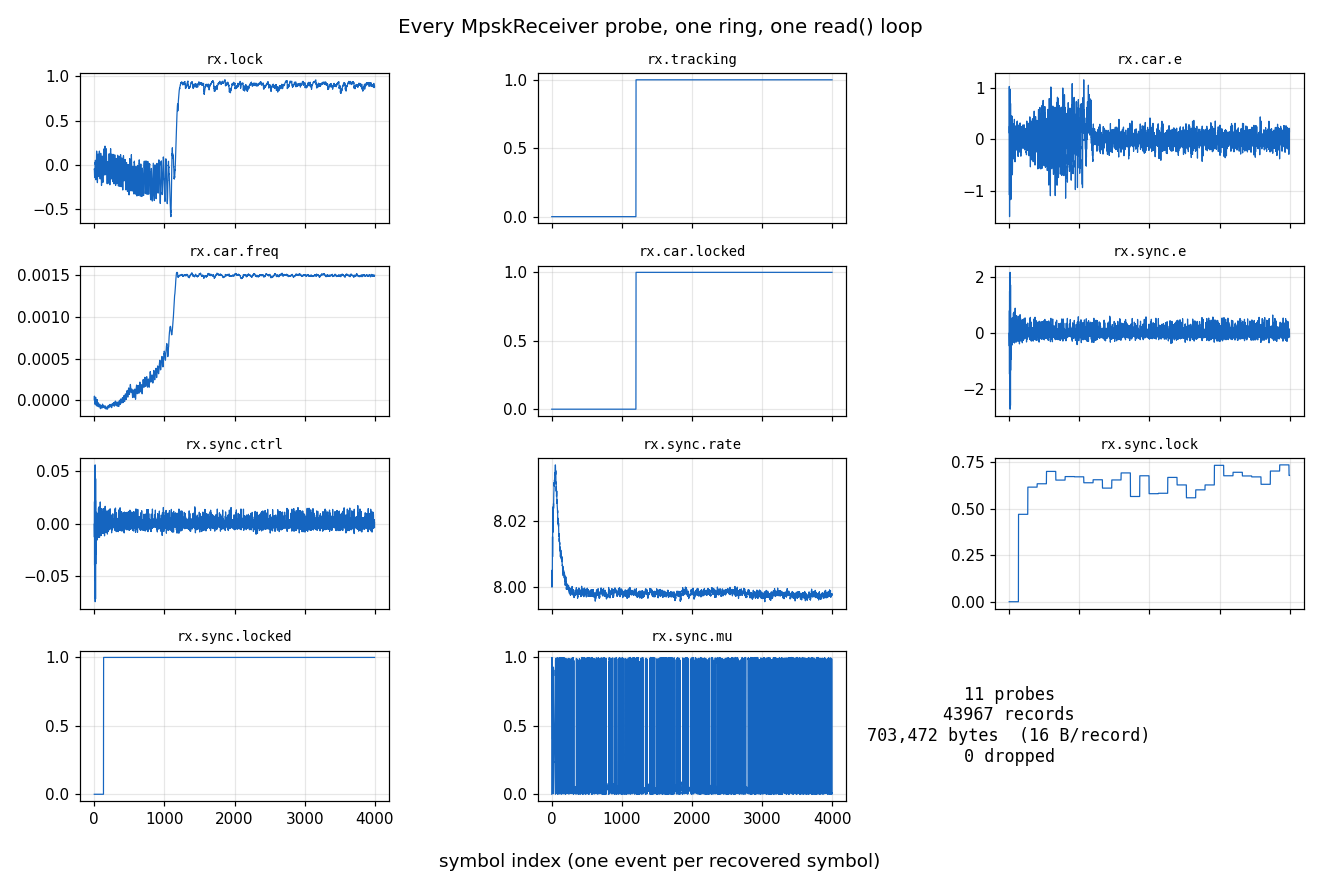
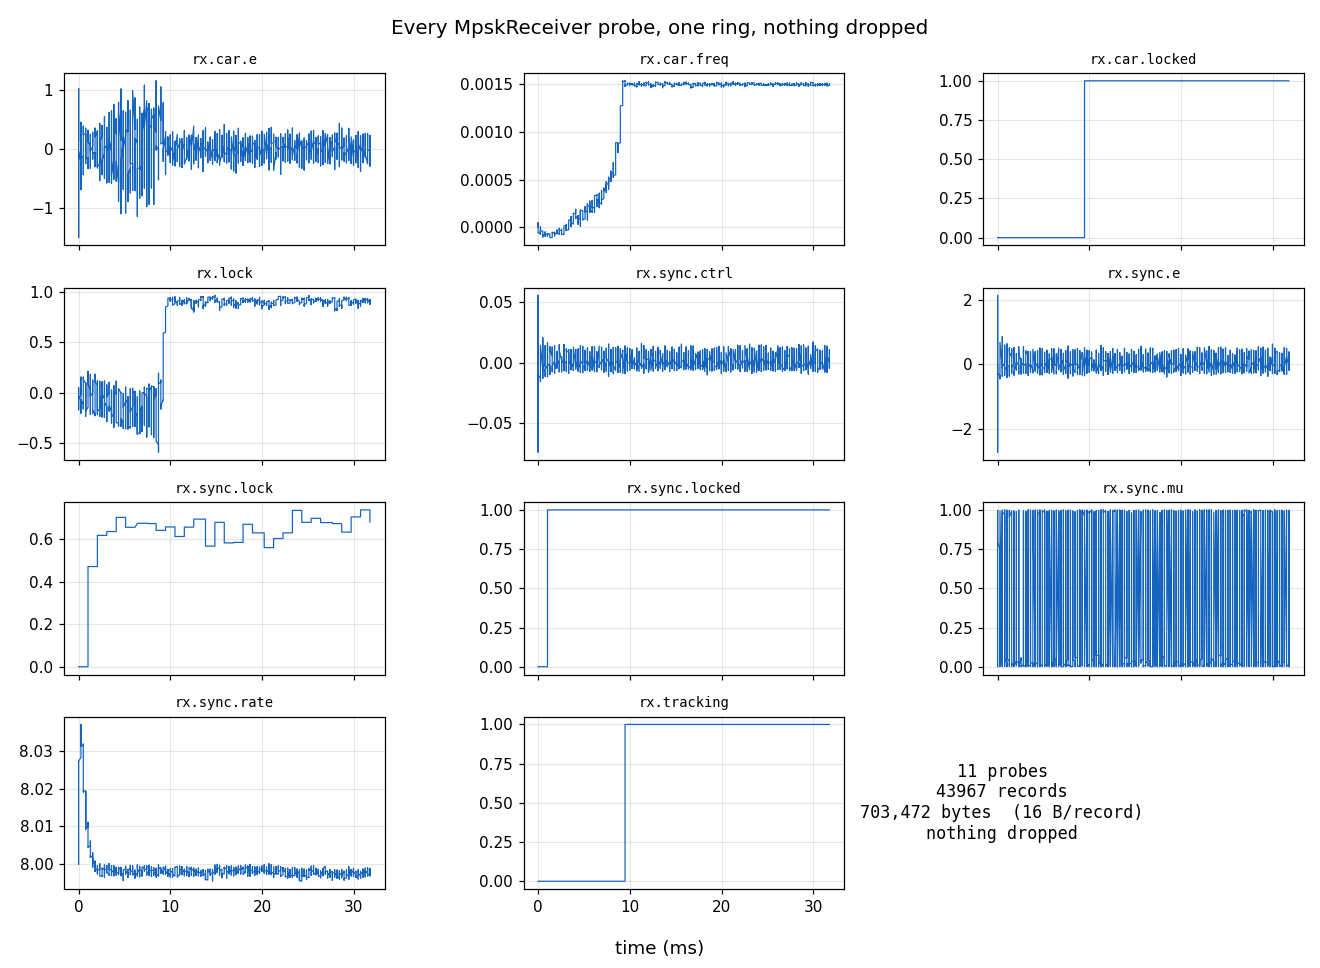
feat(examples): the capture demo measures the convenience layer
docs/design/telemetry.md names this demo as the instrument for the whole
v2 section -- "expert-written and still spends more lines on telemetry
ceremony than on DSP" -- so the section's claims were unbacked while the
demo still did it the old way. Now it does not.

Gone from the capture region: the 1 << 14 ring guess, chunks +
np.concatenate, the recs[recs["probe"] == pid]["value"] filter, the
{v: k} id-to-name inversion, and np.arange(v.size) labelled "symbol
index". The drain is four lines and every one of them reads as DSP. The
x-axis is real milliseconds, so the carrier pull-in at ~9ms lines up
across rx.car.freq, rx.car.locked and rx.tracking by inspection.

`assert tlm.dropped == 0` is GONE rather than restated. It was the only
thing checking the drain cadence had been sufficient, and a capture makes
that arithmetic: close() raises on a hole, so reaching the line after it
is itself the proof. Asserting it again would be a weaker copy of a
guarantee already enforced. Mutation-checked, not assumed -- omitting
set_now() from the loop raises "the capture has a hole".

All six friction rows in the design doc now read fixed, and every one is
demonstrated here rather than merely available. Also recorded there:
capture(**objects) is NOT being built. Every object's attach takes its
own concrete state type, so they share a shape and not a type -- an
attach list would be a void* vtable invented to serve a Python sketch,
[…]

diff --git a/src/doppler/examples/mpsk_telemetry_capture_demo.py b/src/doppler/examples/mpsk_telemetry_capture_demo.py
@@ -1,18 +1,25 @@
 #!/usr/bin/env python3
-"""Capture and store EVERY telemetry probe an MpskReceiver exposes.
+"""Capture EVERY telemetry probe an MpskReceiver exposes, losslessly.
 
 Attaches one `Telemetry` context to an `MpskReceiver` at ``decim=1`` (every
-event on every probe), drives a QPSK carrier pull-in, drains the lock-free
-ring block by block, and stores the complete capture. The stored bytes ARE
-the on-wire format: a `Telemetry.read()` row is the 16-byte C
-``dp_tlm_rec_t`` (``n:u8, value:f4, probe:u2, flags:u2``), so ``np.save``
-persists it with zero conversion and ``recs.tobytes()`` is exactly the
-``TLM16`` payload that ``dp_tlm_sink`` frames onto NATS.
+event on every probe), drives a QPSK carrier pull-in, and lets a
+`MemoryCapture` own the drain. Nothing here reasons about ring size or drain
+cadence: the capture sizes the ring from the probe count and the block, and
+``set_now()`` drains at every boundary, so **a drop is impossible rather than
+merely unlikely** — and `close()` raises if one happened anyway.
 
 The receiver forwards to its child loops, so one attach registers all 11
 probes — its own carrier set (``rx.lock``/``rx.tracking``/``rx.car.*``) plus
-the symbol-timing loop (``rx.sync.*``). The figure plots every one of them,
-all pulled from the same `read()` loop.
+the symbol-timing loop (``rx.sync.*``). `read_dict` hands them back split by
+name with their sample indices, so the figure plots real **seconds** and no
+line of this file filters by probe id or inverts an id-to-name map.
+
+The stored bytes are still the on-wire format: a record is the 16-byte C
+``dp_tlm_rec_t`` (``n:u8, value:f4, probe:u2, flags:u2``), so ``.tofile()``
+writes exactly the ``TLM16`` payload ``dp_tlm_sink`` frames onto NATS. For a
+capture you never need back in-process, ``Capture(tlm, block, path, clock)``
+writes those same bytes straight to disk plus a JSON sidecar carrying the
+probe registry and time base.
 
 Generates ``docs/assets/mpsk_telemetry_capture_demo.png``.
 
@@ -29,8 +36,12 @@ from pathlib import Path
 
 import numpy as np
 
-from doppler.telemetry import Telemetry
+from doppler.telemetry import MemoryCapture, Telemetry
 from doppler.track import MpskReceiver
+from doppler.wfm import SampleClock
+
+FS = 1e6  # sample rate, and therefore the figure's time axis
+BLOCK = 256  # the step of our own loop — and the capture's whole contract
 
 # A QPSK signal at 8 samples/symbol with a residual carrier offset, cold-
 # started (init_norm_freq=0) so the pull-in is real; 20 dB matched Es/N0.
@@ -48,8 +59,9 @@ iq = (
 
 # ONE ring; attach the receiver at decim=1 = EVERY event on EVERY probe. The
 # attach registers the receiver's own probes AND forwards to its child loops,
-# so probe_names below is the full set of "all available telemetry".
-tlm = Telemetry(1 << 14)
+# so this is the full set of "all available telemetry". Probes must be
+# attached BEFORE the capture opens: the ring is sized from the probe table.
+tlm = Telemetry()
 rx = MpskReceiver(
     m=4,
     sps=8,
@@ -62,27 +74,29 @@ rx = MpskReceiver(
     warmup_syms=200,
 )
 rx.set_telemetry(tlm, "rx", 1)
-probes = tlm.probe_names  # name -> id: the full registered set
 
-# Produce block by block on one thread; the single consumer drains every block.
-chunks = []
-for i in range(0, iq.size, 256):
-    tlm.set_now(i)  # stamp this block's records with sample index i
-    rx.steps(iq[i : i + 256])  # producer: emits from the hot loops
-    chunks.append(tlm.read())  # consumer: drain what this block emitted
-recs = np.concatenate(chunks)
+# The capture owns the drain. `set_now(i)` marks the boundary and drains the
+# block just finished; no ring size to guess, no read()/concatenate loop, and
+# no post-hoc assert standing in for a guarantee.
+with MemoryCapture(tlm, BLOCK, SampleClock(FS)) as cap:
+    for i in range(0, iq.size, BLOCK):
+        tlm.set_now(i)
+        rx.steps(iq[i : i + BLOCK])
+    cap.close()  # final drain — and it RAISES if a record was lost, so
+    #              reaching the next line is itself the losslessness proof
+    series = cap.read_dict(index=True)  # {name: (sample_index, values)}
+    recs = cap.records()  # the same data, still 16-byte wire records
 
-# The 16-byte record layout IS the capture format. np.save writes the array
-# verbatim; recs.tobytes() is byte-for-byte the TLM16 payload tlm_sink frames.
-cap = Path(tempfile.mkdtemp())
-np.save(cap / "mpsk_tlm.npy", recs)
-(cap / "mpsk_tlm.tlm16").write_bytes(recs.tobytes())
+# The 16-byte record layout IS the capture format: .tofile() writes exactly
+# the TLM16 payload tlm_sink frames onto the wire.
+store = Path(tempfile.mkdtemp()) / "mpsk_tlm.tlm16"
+recs.tofile(store)
 
 assert rx.tracking == 1  # the receiver handed over to decision-directed track
-assert tlm.dropped == 0  # the drain cadence kept the ring ahead
-assert {int(p) for p in np.unique(recs["probe"])} == set(probes.values())
-assert np.array_equal(np.load(cap / "mpsk_tlm.npy"), recs)  # bit-exact reload
-assert (cap / "mpsk_tlm.tlm16").stat().st_size == recs.nbytes == 16 * len(recs)
+assert set(series) == set(tlm.probe_names)  # every probe came back by name
+assert sum(v.size for _, v in series.values()) == len(recs)  # nothing lost
+assert store.stat().st_size == recs.nbytes == 16 * len(recs)
+assert np.array_equal(np.fromfile(store, dtype=recs.dtype), recs)
 # --8<-- [end:capture]
 
 
@@ -92,50 +106,47 @@ def main(out_path: str = "mpsk_telemetry_capture_demo.png") -> None:
     matplotlib.use("Agg")
     import matplotlib.pyplot as plt
 
-    id2name = {v: kk for kk, v in probes.items()}
-    order = sorted(probes.values())
-
+    names = sorted(series)
     ncol = 3
-    nrow = -(-(len(order) + 1) // ncol)  # +1 cell for the capture summary
+    nrow = -(-(len(names) + 1) // ncol)  # +1 cell for the capture summary
     fig, axes = plt.subplots(
-        nrow, ncol, figsize=(12.0, 2.0 * nrow), sharex=True
+        nrow, ncol, figsize=(12.0, 2.2 * nrow), sharex=True
     )
     axes = axes.ravel()
 
-    # Every probe emits once per recovered symbol, so the event ordinal is the
-    # symbol index; one small panel each — the whole capture, nothing dropped.
-    for ax, pid in zip(axes, order):
-        v = recs[recs["probe"] == pid]["value"]
-        ax.plot(np.arange(v.size), v, lw=0.8, color="#1565c0")
-        ax.set_title(id2name[pid], fontsize=9, family="monospace")
+    # `n` is the sample index the record was stamped with, so the x-axis is
+    # real time — not an event ordinal standing in for one.
+    for ax, name in zip(axes, names):
+        n, v = series[name]
+        ax.plot(n / FS * 1e3, v, lw=0.8, color="#1565c0")
+        ax.set_title(name, fontsize=9, family="monospace")
         ax.grid(alpha=0.3)
         ax.margins(x=0)
 
-    # Summary in the trailing empty cell.
-    sm = axes[len(order)]
+    sm = axes[len(names)]
     sm.axis("off")
     sm.text(
         0.5,
         0.5,
-        f"{len(order)} probes\n{len(recs)} records\n"
-        f"{recs.nbytes:,} bytes  (16 B/record)\n{tlm.dropped} dropped",
+        f"{len(names)} probes\n{len(recs)} records\n"
+        f"{recs.nbytes:,} bytes  (16 B/record)\nnothing dropped",
         ha="center",
         va="center",
         fontsize=11,
         family="monospace",
     )
-    for ax in axes[len(order) + 1 :]:
+    for ax in axes[len(names) + 1 :]:
         ax.axis("off")
 
     fig.suptitle(
-        "Every MpskReceiver probe, one ring, one read() loop", fontsize=13
+        "Every MpskReceiver probe, one ring, nothing dropped", fontsize=13
     )
-    fig.supxlabel("symbol index (one event per recovered symbol)")
+    fig.supxlabel("time (ms)")
     fig.tight_layout()
     fig.savefig(out_path, dpi=110)
     print(
-        f"captured {len(recs)} records over {len(order)} probes "
-        f"({recs.nbytes:,} bytes, {tlm.dropped} dropped) -> {out_path}"
+        f"captured {len(recs)} records over {len(names)} probes "
+        f"({recs.nbytes:,} bytes, nothing dropped) -> {out_path}"
     )
 
 

diff --git a/docs/design/telemetry.md b/docs/design/telemetry.md
@@ -328,21 +328,23 @@ a Python producer can symmetrically publish `read()` output through
 `Publisher(ep, TLM16)`). File dump still falls out of Python for free
 (`recs.tofile(...)`).
 
-## v2 — convenience layer (C built; Python surface pending)
+## v2 — convenience layer (SHIPPED)
 
-v1 is powerful and clunky. The clunkiness is structural, not sloppiness:
-`src/doppler/examples/mpsk_telemetry_capture_demo.py` is expert-written and
-still spends more lines on telemetry ceremony than on DSP. The friction,
-measured across the three telemetry examples:
+v1 was powerful and clunky, structurally rather than sloppily:
+`src/doppler/examples/mpsk_telemetry_capture_demo.py` was expert-written and
+still spent more lines on telemetry ceremony than on DSP. That demo is the
+measuring instrument for this whole section, so it was rewritten around the
+shipped surface — every row below is now demonstrated there, not merely
+available. The friction, as measured across the three telemetry examples:
 
-| friction                       | where                                                  | cost                                          | status                            |
-| ------------------------------ | ------------------------------------------------------ | --------------------------------------------- | --------------------------------- |
-| ring size is a guess           | `Telemetry(1 << 14)` in all three                      | silent drops unless you remember to assert    | **fixed** — computed, not guessed |
-| hand-rolled drain loop         | `set_now` / `steps` / `read` / `concatenate` per block | get the cadence wrong and data is gone        | **fixed** — the capture owns it   |
-| capture is not self-describing | `np.save(recs)` / `recs.tobytes()`                     | **probe names live only in the live context** | **fixed** — JSON sidecar          |
-| per-probe filtering reinvented | `recs[recs["probe"] == tlm.probe_id(n)]["value"]`      | **three copies**, one per example             | open (Python surface)             |
-| id→name inversion by hand      | `{v: k for k, v in probes.items()}`                    | every consumer redoes it                      | open (Python surface)             |
-| no time axis                   | plots use `np.arange(v.size)` labelled "symbol index"  | can't plot seconds even though `n` is stamped | sidecar carries it; plotting open |
+| friction                       | where                                                  | cost                                          | status                              |
+| ------------------------------ | ------------------------------------------------------ | --------------------------------------------- | ----------------------------------- |
+| ring size is a guess           | `Telemetry(1 << 14)` in all three                      | silent drops unless you remember to assert    | **fixed** — computed, not guessed   |
+| hand-rolled drain loop         | `set_now` / `steps` / `read` / `concatenate` per block | get the cadence wrong and data is gone        | **fixed** — the capture owns it     |
+| capture is not self-describing | `np.save(recs)` / `recs.tobytes()`                     | **probe names live only in the live context** | **fixed** — JSON sidecar            |
+| per-probe filtering reinvented | `recs[recs["probe"] == tlm.probe_id(n)]["value"]`      | **three copies**, one per example             | **fixed** — `read_dict()`           |
+| id→name inversion by hand      | `{v: k for k, v in probes.items()}`                    | every consumer redoes it                      | **fixed** — keys ARE the names      |
+| no time axis                   | plots use `np.arange(v.size)` labelled "symbol index"  | can't plot seconds even though `n` is stamped | **fixed** — `read_dict(index=True)` |
 
 ### Losslessness is arithmetic, not scheduling
 
@@ -681,6 +683,20 @@ make five spellings of "format a timestamp" in one repo, so the display
 helper is consolidated in the same pass.
 
 ### The four pieces
+
+**Status.** Three of the four are done, and one dissolved. `read_dict()`
+shipped as described. `recording()` was **superseded** before it was built:
+the boundary drain below is a proof where a polling thread was a heuristic,
+so `Capture`/`MemoryCapture` own the drain instead. `to_file` shipped in a
+different shape — raw records plus a `<path>-meta` JSON sidecar rather than
+one framed container, which keeps `np.fromfile` working with no reader
+library. And **`capture(**objects)` is not being built**: doppler is
+C-first, and there is no C face for it to bind. Every instrumented object's
+attach takes its own concrete state type (`mpsk_receiver_state_t *`,
+`symsync_state_t *`, …) — they share a shape, not a type — so an attach
+list would be a `void *` vtable invented to serve a Python sketch, and the
+per-object attach is already bound as `rx.set_telemetry(tlm, "rx", 1)`.
+The sketch below is kept as the design record that led there.
 
 **1 — `capture(**objects)` — one command to turn everything on.**
 `set_telemetry` already registers *all* of an object's probes, forwarding to

diff --git a/docs/gallery/mpsk-telemetry-capture.md b/docs/gallery/mpsk-telemetry-capture.md
@@ -5,11 +5,11 @@
 ## What you're seeing
 
 Every panel is one telemetry probe an `track.MpskReceiver` exposes, and
-every trace came out of a **single** `read()` loop over a **single**
-`telemetry.Telemetry` ring. One `set_telemetry` attach registers the
-receiver's own carrier probes **and** forwards to its symbol-timing child
-loop, so a cold-start QPSK pull-in leaves a complete record of the whole
-receiver:
+every trace came out of a **single** `telemetry.MemoryCapture` over a
+**single** `telemetry.Telemetry` ring. One `set_telemetry` attach registers
+the receiver's own carrier probes **and** forwards to its symbol-timing
+child loop, so a cold-start QPSK pull-in leaves a complete record of the
+whole receiver:
 
 - **`rx.lock` / `rx.tracking` / `rx.car.locked`** — the carrier lock EMA
     rises off its cold-start value, and the two verify-counted decisions
@@ -26,33 +26,39 @@ receiver:
 
 Nothing is decimated (`decim=1`) and nothing is dropped — the summary cell
 reports the full capture: 11 probes, one 16-byte record per probe per
-recovered symbol.
+recovered symbol. The x-axis is real time, because each record carries the
+sample index it was stamped with.
 
 ## How it works
 
-The 16-byte record layout **is** the capture format. `Telemetry.read()`
-returns the exact C `dp_tlm_rec_t` as a structured array
-(`n:u8, value:f4, probe:u2, flags:u2`), so `np.save` persists it with no
-transformation and `recs.tobytes()` is byte-for-byte the `TLM16` payload
-that `dp_tlm_sink` frames onto the NATS wire. File storage and streaming
-fan-out share one format — the capture below verifies both round-trip
-bit-exact:
+Two things the caller no longer does. **The drain**: a `MemoryCapture`
+sizes the ring from the probe count and the block, and `set_now(i)` drains
+at every boundary — so losslessness is arithmetic rather than a cadence you
+have to get right, and `close()` raises if a record was lost anyway.
+**The split**: `read_dict(index=True)` returns `{name: (n, values)}`, so
+nothing below filters by probe id, inverts an id-to-name map, or plots an
+event ordinal in place of a time axis.
 
 ```python
 --8<-- "src/doppler/examples/mpsk_telemetry_capture_demo.py:capture"
 ```
 
-Two rules make "capture everything" safe by construction: the ring is
-SPSC, so the producer (`steps`) and consumer (`read`) run on one thread
-together while `set_now(n)` stamps a shared sample clock; and `read()` is
-non-blocking, so a slow reader costs *records* (`dropped` counts them),
-never *throughput*. Drain at least as fast as the aggregate emit rate and
-`dropped` stays 0.
+The 16-byte record layout **is** the capture format. `records()` returns
+the exact C `dp_tlm_rec_t` as a structured array
+(`n:u8, value:f4, probe:u2, flags:u2`), so `.tofile()` writes it with no
+transformation and those bytes are byte-for-byte the `TLM16` payload that
+`dp_tlm_sink` frames onto the NATS wire. File storage and streaming fan-out
+share one format — the capture above verifies the round-trip bit-exact.
 
-For a long run, append each `read()` chunk to an open file handle and
-rotate on size — every chunk is already wire-format bytes. To take the same
-records across processes, publish them as `TLM16` frames instead of saving
-them; see [Many Emitters, One Consumer](telemetry-fanin.md).
+The ring stays SPSC: producer (`steps`) and consumer (the capture's drain)
+run on one thread together, which is exactly why the boundary drain is both
+the fastest option and the provable one.
+
+For a capture you never need back in-process, `Capture(tlm, block, path, clock)` writes those same bytes straight to disk plus a `<path>-meta` JSON
+sidecar carrying the probe registry and time base — self-describing, so a
+reader needs nothing from the process that wrote it. To take the same
+records across processes live, publish them as `TLM16` frames instead; see
+[Many Emitters, One Consumer](telemetry-fanin.md).
 
 ## Run it
 
